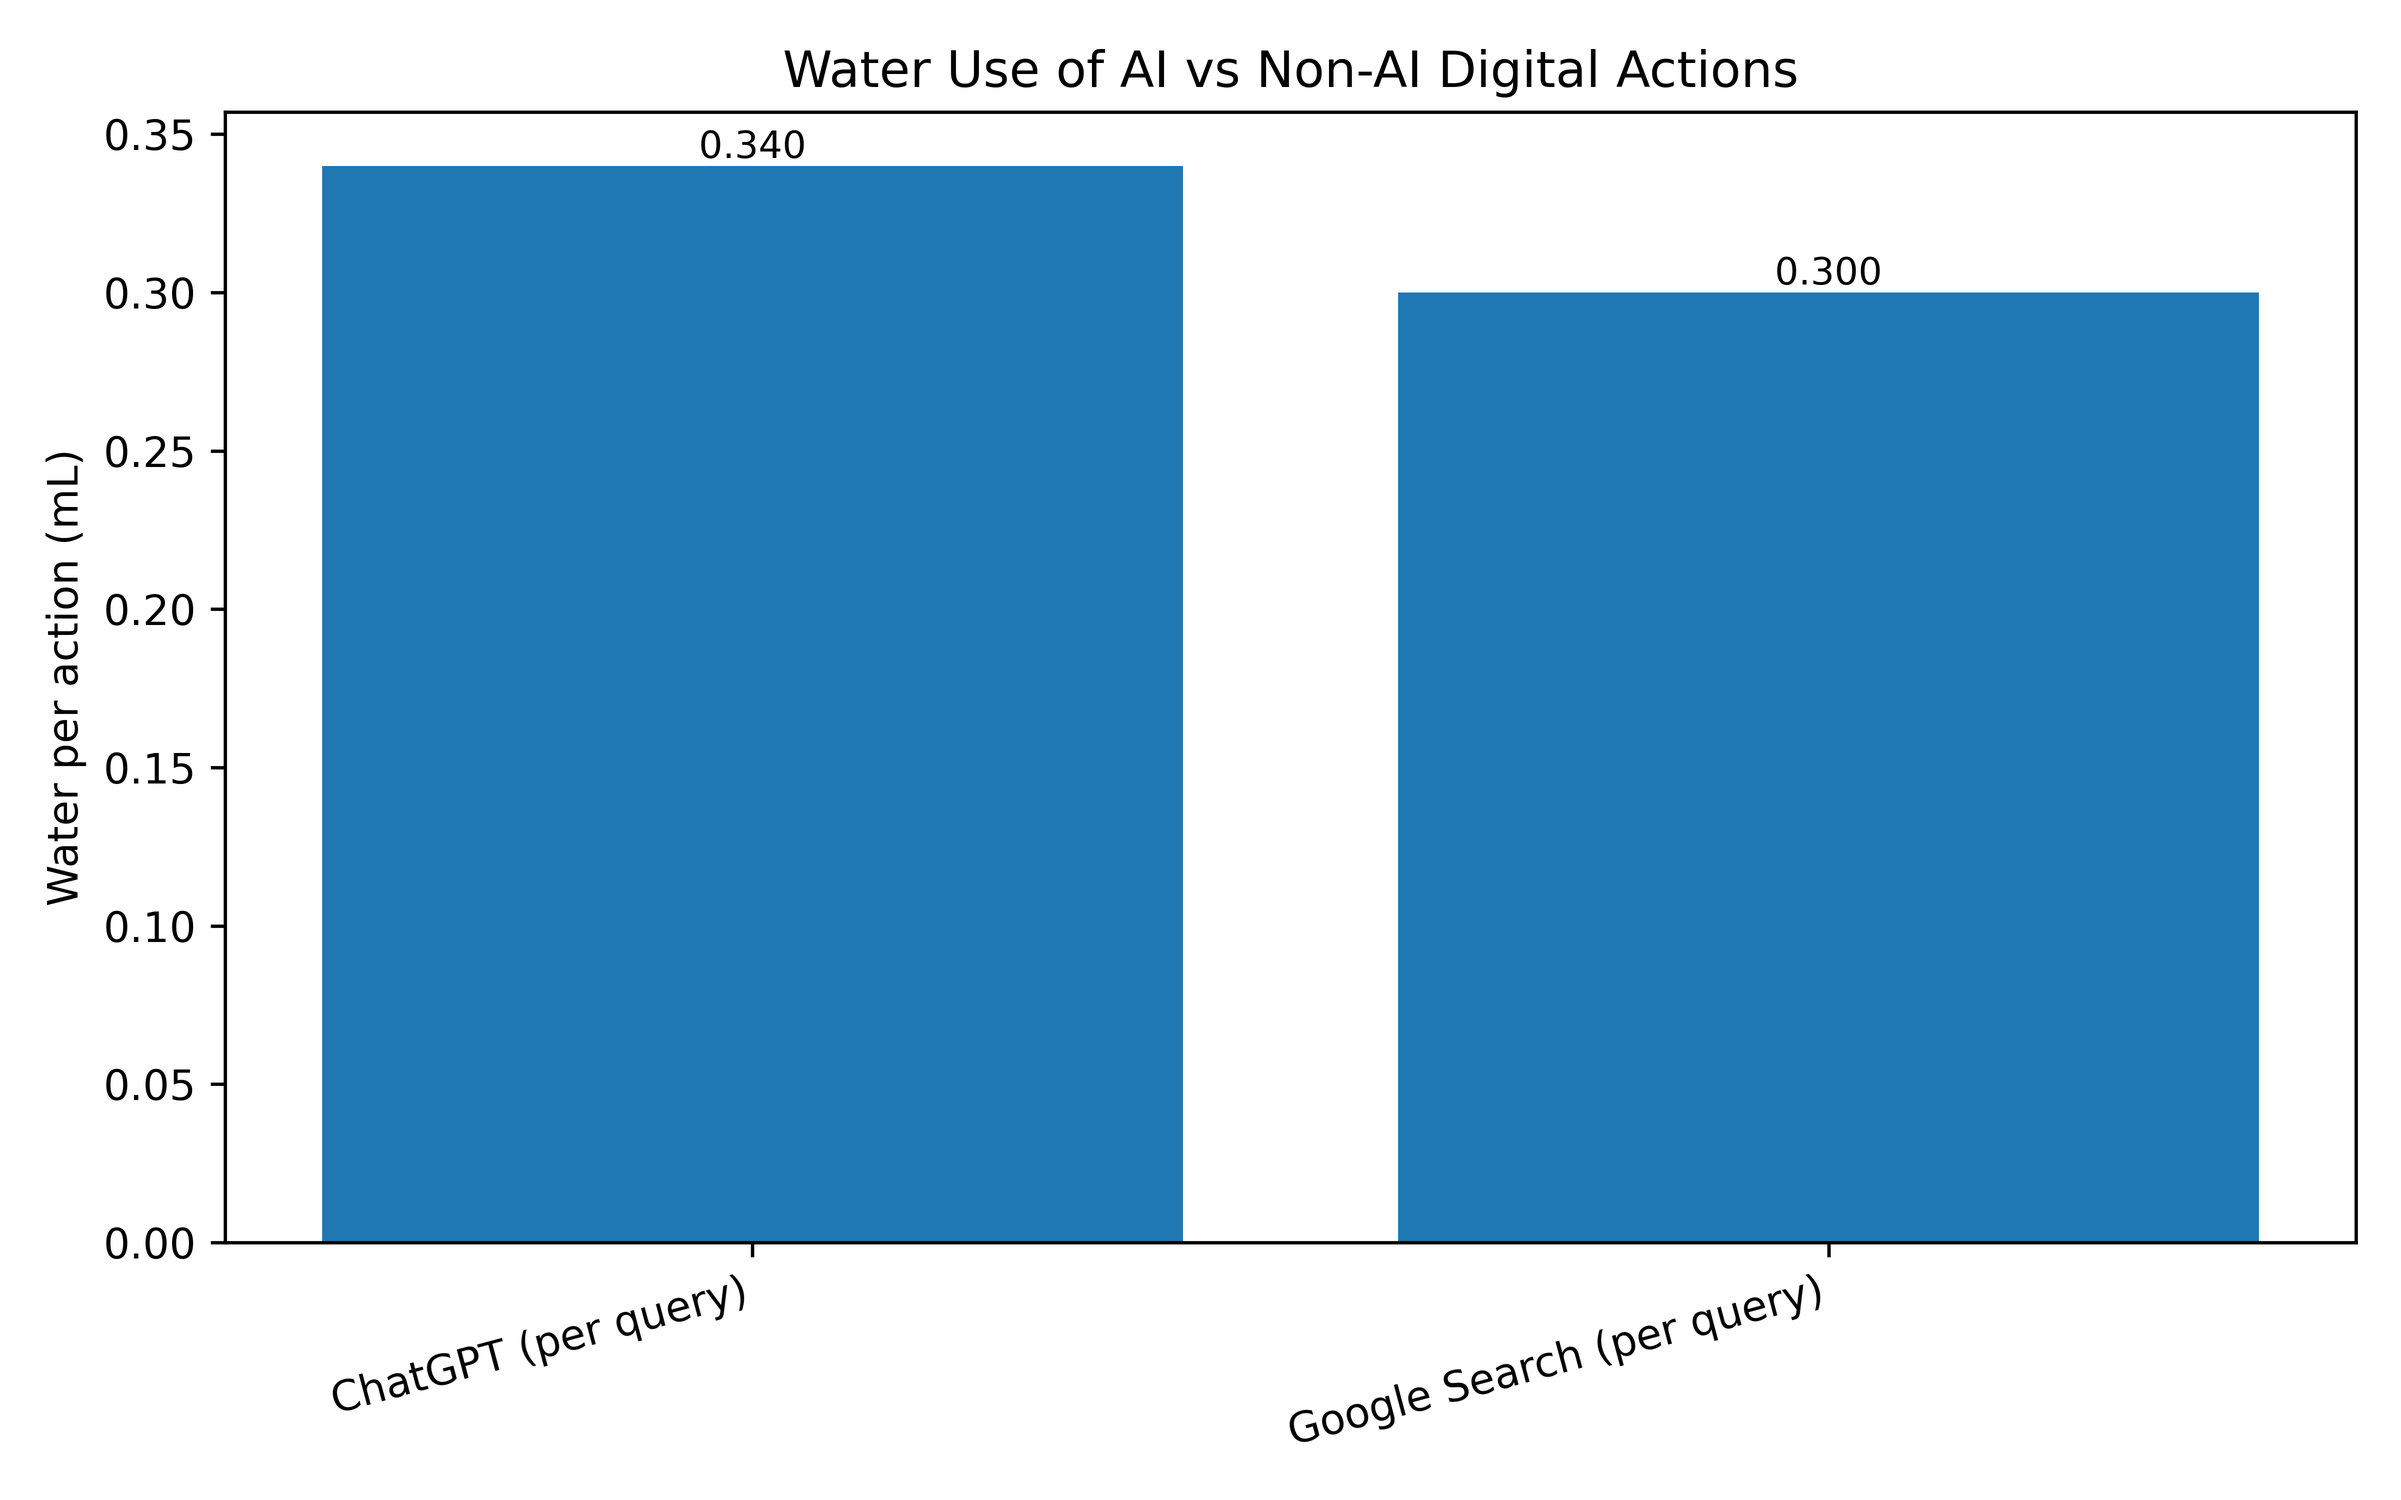
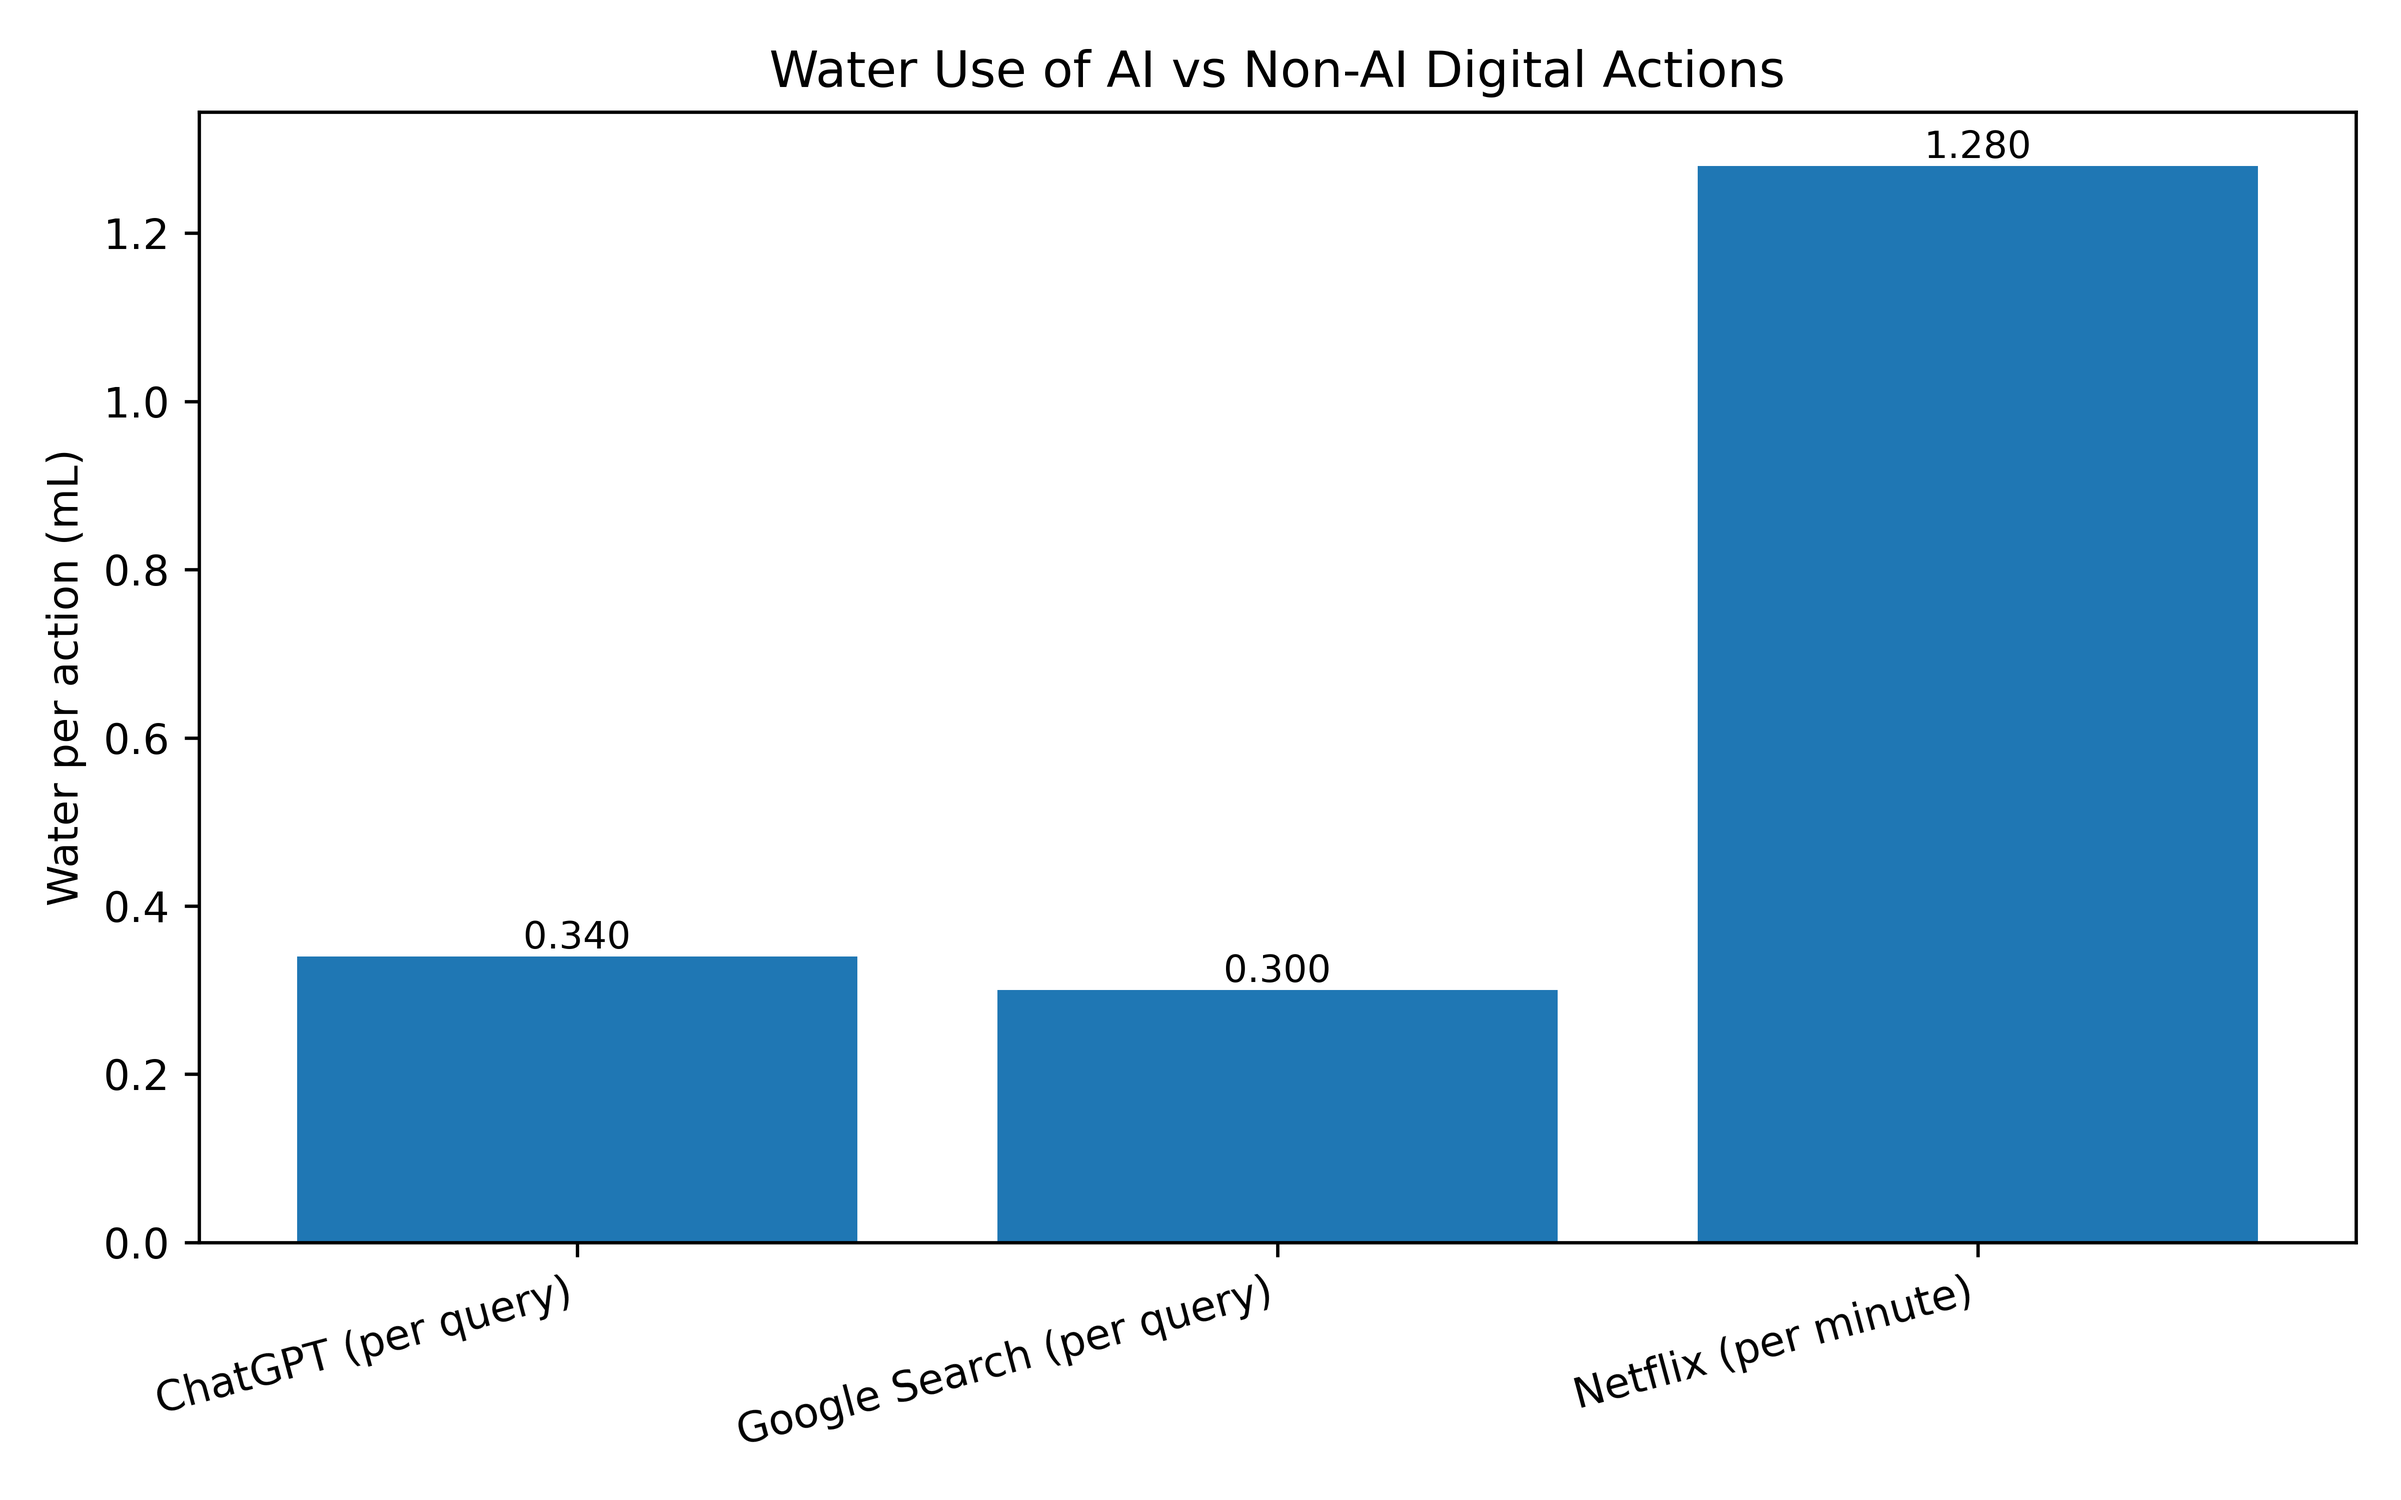
Made a change to ai vs non ai

diff --git a/plot_wue_ai_vs_nonai.py b/plot_wue_ai_vs_nonai.py
@@ -60,8 +60,8 @@ def plot_water_bar_chart(df):
         "ChatGPT x10 queries",
         "Google Search x10 queries",
         # uncomment if you want these too:
-        # "TikTok x10 min",
-        # "Netflix x10 min",
+        #"TikTok x10 min",
+        "Netflix x10 min",
     ]
     df_plot = df[df["Activity"].isin(keep)].copy()
 
